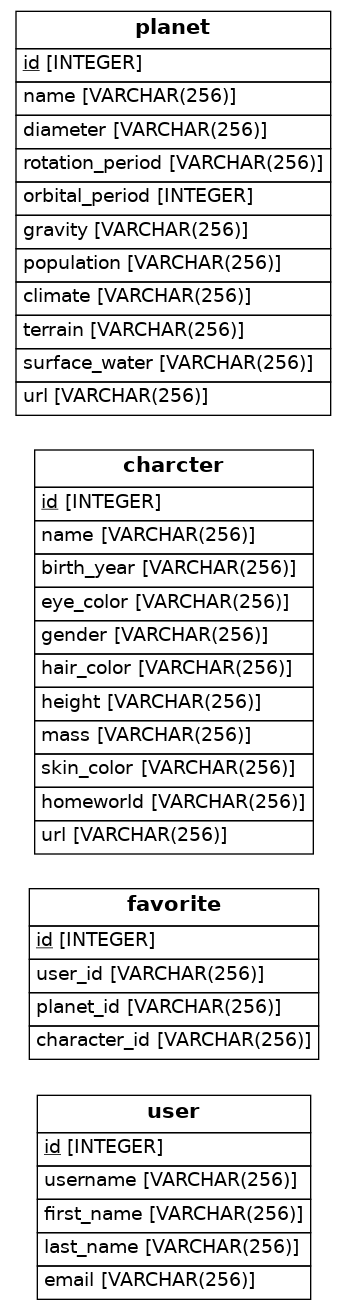
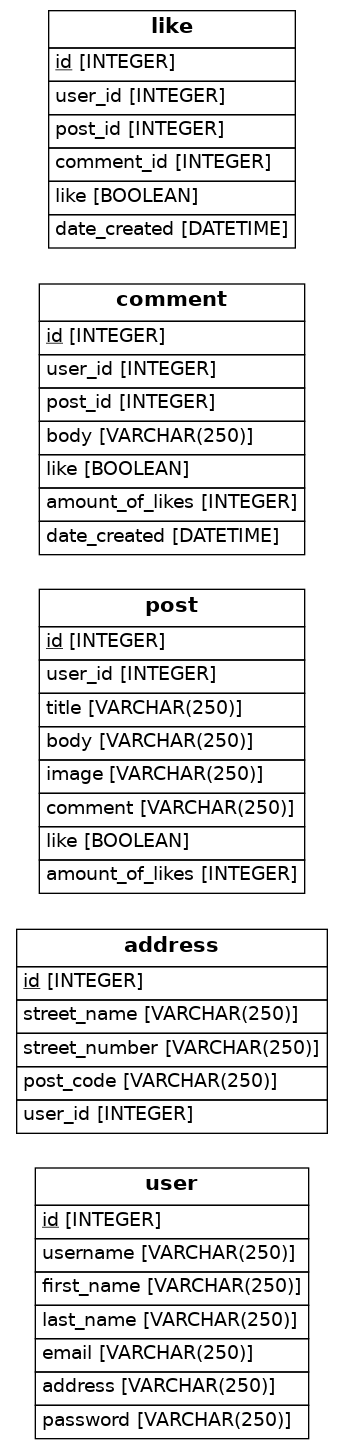
successfully generated diagram

diff --git a/src/models.py b/src/models.py
@@ -1,6 +1,6 @@
 import os
 import sys
-from sqlalchemy import Column, ForeignKey, Integer, String
+from sqlalchemy import Column, ForeignKey, Integer, String, DateTime, Boolean
 from sqlalchemy.ext.declarative import declarative_base
 from sqlalchemy.orm import relationship
 from sqlalchemy import create_engine
@@ -13,60 +13,66 @@ class User(Base):
     # Here we define columns for the table person
     # Notice that each column is also a normal Python instance attribute.
     id = Column(Integer, primary_key=True)
-    username = Column(String(256), nullable=False)
-    first_name = Column(String(256), nullable=False)
-    last_name = Column(String(256), nullable=False)
-    email = Column(String(256), nullable=False)
-    password = Column(String(256), nullable=False)
+    username = Column(String(250), nullable=False)
+    first_name = Column(String(250), nullable=False)
+    last_name = Column(String(250), nullable=False)
+    email = Column(String(250), nullable=False)
+    address = Column(String(250), nullable=False)
+    password = Column(String(250), nullable=False)
 
 
-
-class Favorite(Base):
-    __tablename__ = 'favorite'
-    # Here we define columns for the table person
+class Address(Base):
+    __tablename__ = 'address'
+    # Here we define columns for the table address.
     # Notice that each column is also a normal Python instance attribute.
     id = Column(Integer, primary_key=True)
+    street_name = Column(String(250))
+    street_number = Column(String(250))
+    post_code = Column(String(250), nullable=False)
     user_id = Column(Integer, ForeignKey('User.id'))
-    planet_id = Column(Integer, ForeignKey('Planet.id'))
-    character_id = Column(Integer, ForeignKey('Character.id'))
-
-
-class Character(Base):
-    __tablename__ = 'charcter'
-    # Here we define columns for the table address.
-    # Notice that each column is also a normal Python instance attribute.
-    id = Column(Integer, primary_key=True)
-    name = Column(String(256))
-    birth_year = Column(Integer)
-    eye_color = Column(String(256), nullable=False)
-    gender = Column(String(256), nullable=False)
-    hair_color = Column(String(256), nullable=False)
-    height = Column(Integer, nullable=False)
-    mass = Column(Integer, nullable=False)
-    skin_color = Column(String(256), nullable=False)
-    homeworld = Column(String(256), nullable=False)
-    url = Column(String(256), nullable=False)
-
-class Planet(Base):
-    __tablename__ = 'planet'
-    # Here we define columns for the table address.
-    # Notice that each column is also a normal Python instance attribute.
-    id = Column(Integer, primary_key=True)
-    name = Column(String(256))
-    diameter = Column(Integer)
-    rotation_period = Column(Integer, nullable=False)
-    orbital_period = Column(Integer)
-    gravity = Column(Integer, nullable=False)
-    population = Column(Integer, nullable=False)
-    climate = Column(String(256), nullable=False)
-    terrain = Column(String(256), nullable=False)
-    surface_water = Column(String(256), nullable=False)
-    url = Column(String(256), nullable=False)
 
     def to_dict(self):
         return {}
 
-## Draw from SQLAlchemy base
-render_er(Base, 'diagram.png')
 
-# ForeignKey('person.id')
+class Post(Base):
+    __tablename__ = 'post'
+    id = Column(Integer, primary_key=True)
+    user_id = Column(Integer, ForeignKey('User.id'))
+    title = Column(String(250), nullable=False)
+    body = Column(String(250), nullable=False)
+    image =  Column(String(250), nullable=False)
+    comment =  Column(String(250), nullable=False)
+    like =  Column(Boolean(), nullable=False)
+    amount_of_likes =  Column(Integer, nullable=False)
+
+
+class Comment(Base):
+    __tablename__ = 'comment'
+    id = Column(Integer, primary_key=True)
+    user_id = Column(Integer, ForeignKey('User.id'))
+    post_id = Column(Integer, ForeignKey('Post.id'))
+    body = Column(String(250), nullable=False)
+    like =  Column(Boolean, nullable=False)
+    amount_of_likes =  Column(Integer, nullable=False)
+    date_created = Column(DateTime, nullable=False)
+
+
+class Like(Base):
+    __tablename__ = 'like'
+    id = Column(Integer, primary_key=True)
+    user_id = Column(Integer, ForeignKey('User.id'))
+    post_id = Column(Integer, ForeignKey('Post.id'))
+    comment_id = Column(Integer, ForeignKey('Comment.id'))
+    like =  Column(Boolean, nullable=False)
+    date_created = Column(DateTime, nullable=False)
+
+
+
+## Draw from SQLAlchemy base
+try:
+    result = render_er(Base, 'diagram.png')
+    print("Success! Check the diagram.png file")
+except Exception as e:
+    print("There was a problem genering the diagram")
+    raise e
